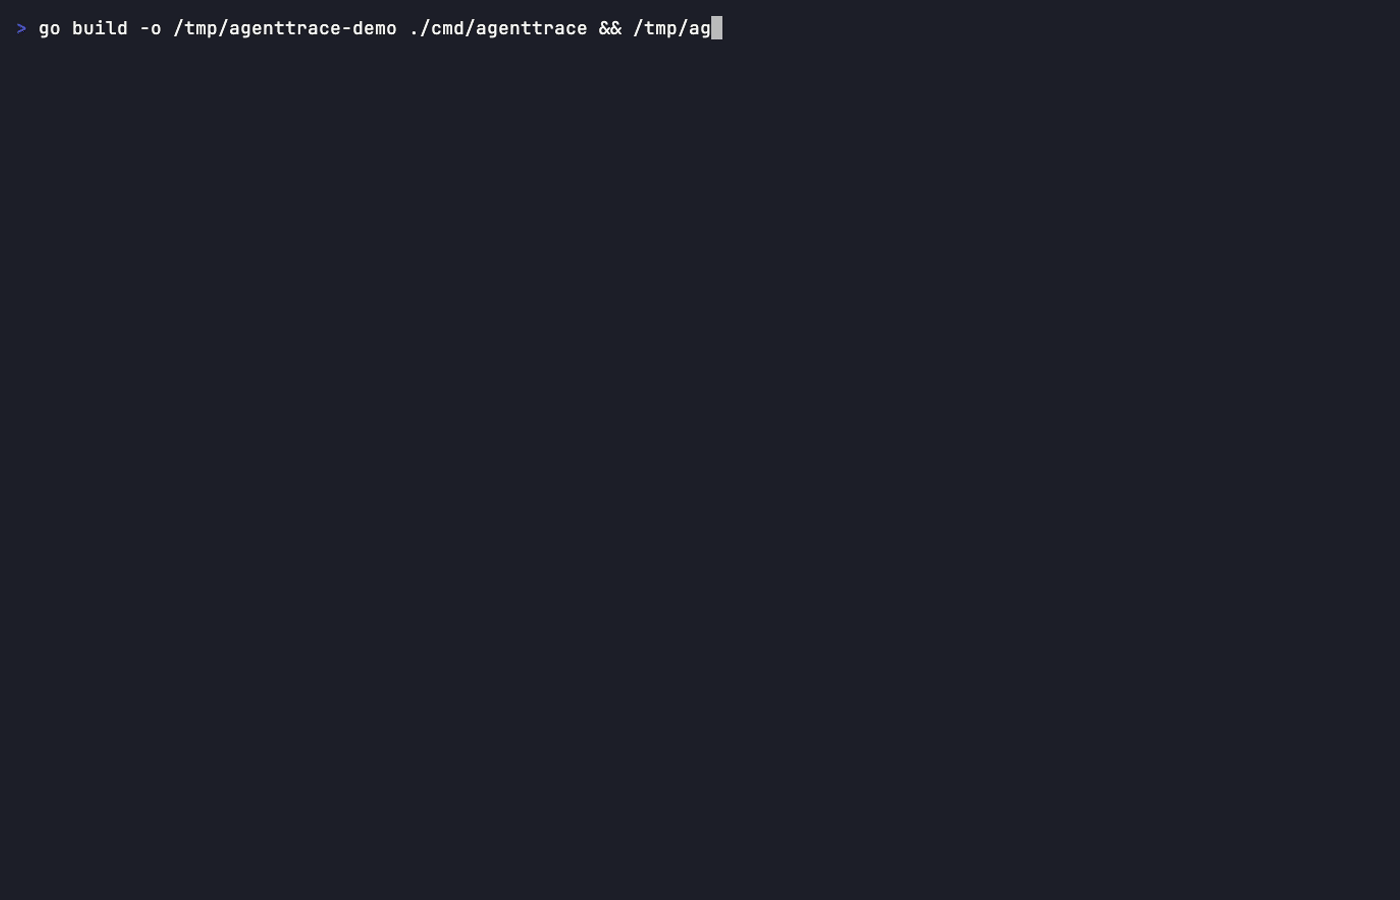
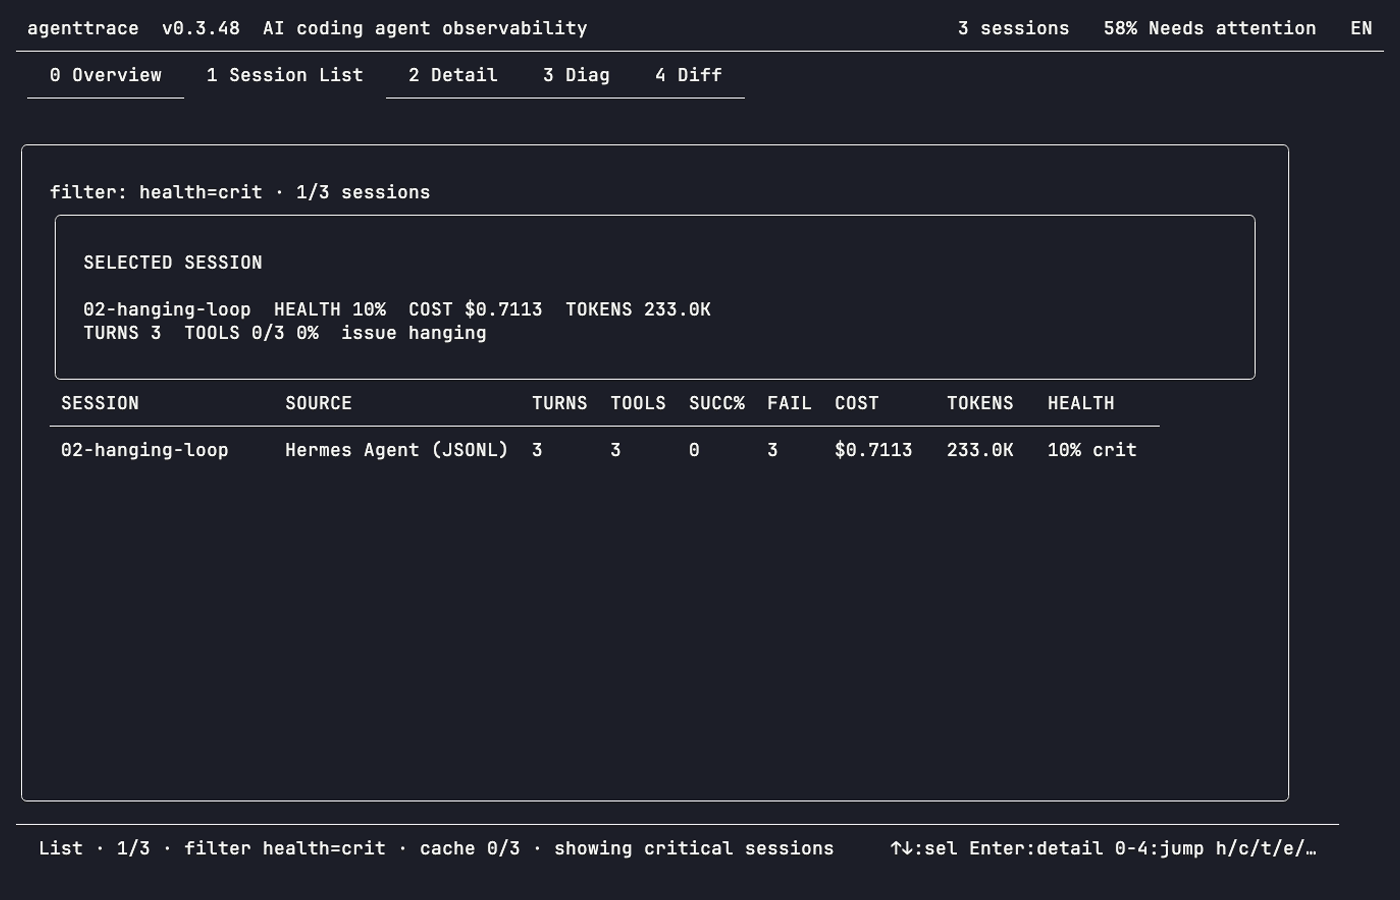
Polish TUI demo path and refresh assets

diff --git a/internal/tui/tui.go b/internal/tui/tui.go
@@ -1039,6 +1039,11 @@ func (m Model) renderListView() string {
 		sections = append(sections, empty)
 		extraLines += renderedLineCount(empty)
 	}
+	if selected := m.renderSelectedSessionSummary(maxInt(1, contentW-6)); selected != "" {
+		panel := subtlePanel(i18n.T("list_selected"), selected, contentW)
+		sections = append(sections, panel)
+		extraLines += renderedLineCount(panel)
+	}
 	tableView := m.table
 	tableView.SetWidth(contentW)
 	tableView.SetHeight(m.listTableHeight(extraLines))
@@ -1203,16 +1208,22 @@ func (m Model) renderSelectedSessionSummary(width int) string {
 			dimStyle.Render(truncate(line2, width)),
 		)
 	}
-	line := fmt.Sprintf("%s  %s %d%%  %s $%.4f  %s %s  %s %d  %s %d/%d %s  %s %s",
-		truncate(s.Name, 28),
+	nameW := minInt(32, maxInt(14, width/3))
+	line1 := fmt.Sprintf("%s  %s %d%%  %s $%.4f  %s %s",
+		truncate(s.Name, nameW),
 		i18n.T("health"), clampHealth(s.Health),
 		i18n.T("cost"), safeAmount(met.CostEstimated),
 		i18n.T("tokens"), compactInt(met.TokensInput+met.TokensOutput),
+	)
+	line2 := fmt.Sprintf("%s %d  %s %d/%d %s  %s %s",
 		i18n.T("turns_header"), nonNegativeInt(met.AssistantTurns),
 		i18n.T("tools"), okTools, totalTools, success,
 		i18n.T("list_issue"), issue,
 	)
-	return dimStyle.Render(truncate(line, width))
+	return lipgloss.JoinVertical(lipgloss.Left,
+		dimStyle.Render(truncate(line1, width)),
+		dimStyle.Render(truncate(line2, width)),
+	)
 }
 
 func (m Model) selectionHint() string {
@@ -1897,25 +1908,19 @@ func (m Model) renderContextUtil(s engine.Session) string {
 	default:
 		style = greenStyle
 	}
-	barWidth := 30
-	if m.frameBodyWidth() < 70 {
-		barWidth = maxInt(8, m.frameBodyWidth()-34)
-	}
 	utilPct := cu.UtilizationPct
 	if !isFiniteNumber(utilPct) || utilPct < 0 {
 		utilPct = 0
 	} else if utilPct > 100 {
 		utilPct = 100
 	}
-	filled := int(utilPct / 100 * float64(barWidth))
-	bar := "[" + lipgloss.NewStyle().Foreground(lipgloss.Color("196")).Render(strings.Repeat("█", filled)) +
-		lipgloss.NewStyle().Foreground(lipgloss.Color("240")).Render(strings.Repeat("░", barWidth-filled)) + "]"
+	utilLabel := style.Render(fmt.Sprintf("(%.0f%% %s)", utilPct, i18n.T("diag_ctx_used")))
 
 	if m.frameBodyWidth() < 70 {
 		content := fmt.Sprintf("  %-10s %s\n", i18n.T("diag_ctx_total"), cyanStyle.Render(tokenCount(cu.EstimatedTotal)))
 		content += fmt.Sprintf("  %-10s %s\n", i18n.T("diag_ctx_tool_defs"), dimStyle.Render(tokenCount(cu.ToolDefinitions)))
 		content += fmt.Sprintf("  %-10s %s\n", i18n.T("diag_ctx_history"), dimStyle.Render(tokenCount(cu.ConversationHist)))
-		content += fmt.Sprintf("  %-10s %s %s\n", i18n.T("diag_ctx_available"), style.Render(fmt.Sprintf("%d", nonNegativeInt(cu.AvailableForTask))), bar)
+		content += fmt.Sprintf("  %-10s %s %s\n", i18n.T("diag_ctx_available"), style.Render(tokenCount(cu.AvailableForTask)), utilLabel)
 		content += fmt.Sprintf("  %-10s %s\n", i18n.T("diag_ctx_suggestion"), style.Render(truncate(cu.Suggestion, maxInt(8, m.frameBodyWidth()-18))))
 		return content
 	}
@@ -1926,7 +1931,7 @@ func (m Model) renderContextUtil(s engine.Session) string {
 	content += fmt.Sprintf("  %-22s %s\n", i18n.T("diag_ctx_sysprompt"), dimStyle.Render(tokenCount(cu.SystemPrompt)))
 	content += fmt.Sprintf("  ─────────────────────────────\n")
 	content += fmt.Sprintf("  %-22s %s %s\n", i18n.T("diag_ctx_available"),
-		style.Render(tokenCount(cu.AvailableForTask)), bar)
+		style.Render(tokenCount(cu.AvailableForTask)), utilLabel)
 	content += fmt.Sprintf("  %-22s %s\n", i18n.T("diag_ctx_suggestion"), style.Render(cu.Suggestion))
 	return content
 }
@@ -2209,21 +2214,21 @@ func costColor(amount float64) string {
 
 func healthCell(health int, width int) string {
 	health = clampHealth(health)
-	score := fmt.Sprintf("%3d%%", health)
+	score := fmt.Sprintf("%d%%", health)
 	if width < 7 {
-		return fmt.Sprintf("%d%%", health)
+		return truncate(score, width)
 	}
-	barW := maxInt(1, width-5)
-	filled := health * barW / 100
-	if health > 0 && filled == 0 {
-		filled = 1
+	label := i18n.T("list_health_crit")
+	if health >= 80 {
+		label = i18n.T("list_health_good")
+	} else if health >= 50 {
+		label = i18n.T("list_health_warn")
 	}
-	if filled > barW {
-		filled = barW
+	text := score
+	if candidate := fmt.Sprintf("%s %s", score, label); lipgloss.Width(candidate) <= width {
+		text = candidate
 	}
-	bar := healthColor(health).Render(strings.Repeat("█", filled)) +
-		dimStyle.Render(strings.Repeat("░", barW-filled))
-	return score + " " + bar
+	return healthColor(health).Render(truncate(text, width))
 }
 
 // refreshColumns rebuilds column titles after a language switch.
@@ -2243,10 +2248,10 @@ func (m *Model) adjustColumnWidths(width int) {
 		m.setColumnsAndRefreshRows(m.wideListColumns(22, 13, 18, 5, 5, 5, 5, 8, 7, 8, 5, 9, 16))
 		return
 	} else if width > 130 {
-		m.setColumnsAndRefreshRows(m.wideListColumns(14, 8, 10, 5, 5, 5, 4, 7, 6, 5, 4, 7, 10))
+		m.setColumnsAndRefreshRows(m.wideListColumns(14, 13, 10, 5, 5, 5, 4, 7, 6, 5, 4, 9, 7))
 		return
 	} else if width >= 100 {
-		sessW, srcW, turnsW, toolsW, succW, failW, costW, tokensW, healthW = 17, 10, 5, 5, 5, 4, 8, 7, 8
+		sessW, srcW, turnsW, toolsW, succW, failW, costW, tokensW, healthW = 18, 20, 5, 5, 5, 4, 8, 7, 9
 	} else if width >= 92 {
 		sessW, srcW, turnsW, toolsW, succW, failW, costW, tokensW, healthW = 10, 7, 4, 4, 4, 4, 7, 5, 7
 	} else if width >= 76 {

diff --git a/internal/i18n/i18n.go b/internal/i18n/i18n.go
@@ -757,8 +757,8 @@ var translations = map[string]map[Lang]string{
 		ZH: "警告: '%s' 无进展重复 %d 次",
 	},
 	"diag_no_loop_fp": {
-		EN: "No fingerprint loops detected — agent progressing normally",
-		ZH: "未检测到指纹级循环 — Agent 正常推进中",
+		EN: "No fingerprint loops detected",
+		ZH: "未检测到指纹级循环",
 	},
 	"diag_tool_latency": {
 		EN: "PER-TOOL LATENCY RANKING",
@@ -780,6 +780,7 @@ var translations = map[string]map[Lang]string{
 	"diag_ctx_history":    {EN: "Conversation History", ZH: "对话历史"},
 	"diag_ctx_sysprompt":  {EN: "System Prompt", ZH: "系统提示"},
 	"diag_ctx_available":  {EN: "Available for Task", ZH: "任务可用空间"},
+	"diag_ctx_used":       {EN: "used", ZH: "已用"},
 	"diag_ctx_suggestion": {EN: "Recommendation", ZH: "建议"},
 	"diag_large_params": {
 		EN: "LARGE PARAMETER CALLS",
@@ -833,6 +834,7 @@ var translations = map[string]map[Lang]string{
 	"cache_status":          {EN: "cache %d/%d", ZH: "缓存 %d/%d"},
 	"scroll_label":          {EN: "Scroll", ZH: "滚动"},
 	"list_filter":           {EN: "filter", ZH: "筛选"},
+	"list_selected":         {EN: "SELECTED SESSION", ZH: "当前会话"},
 	"list_issue":            {EN: "issue", ZH: "问题"},
 	"list_no_major_anomaly": {EN: "No major anomaly", ZH: "无主要异常"},
 	"list_filter_none":      {EN: "none", ZH: "无"},
@@ -1137,7 +1139,7 @@ var translations = map[string]map[Lang]string{
 	// ── Context utilization suggestion ──
 	"diag_ctx_suggestion_critical": {EN: "context nearly full — reduce MCP tools or compact conversation immediately", ZH: "上下文几乎满 — 立即减少 MCP 工具或压缩对话"},
 	"diag_ctx_suggestion_warning":  {EN: "context filling up — consider compacting or trimming rarely used tools", ZH: "上下文趋于饱和 — 考虑压缩或裁剪低频工具"},
-	"diag_ctx_suggestion_good":     {EN: "plenty of context headroom", ZH: "上下文空间充足"},
+	"diag_ctx_suggestion_good":     {EN: "context headroom OK", ZH: "上下文空间充足"},
 
 	// ── Diff summary ──
 	"diff_summary_session_vs":  {EN: "Session %s vs %s", ZH: "会话 %s vs %s"},

diff --git a/internal/tui/tui_test.go b/internal/tui/tui_test.go
@@ -708,16 +708,20 @@ func TestViewsClampInvalidHealthScores(t *testing.T) {
 	}
 }
 
-func TestHealthCellShowsScanFriendlyBar(t *testing.T) {
+func TestHealthCellShowsScanFriendlyStatus(t *testing.T) {
+	prev := i18n.Current
+	i18n.SetLang(i18n.EN)
+	t.Cleanup(func() { i18n.SetLang(prev) })
+
 	tests := []struct {
 		health int
 		width  int
 		want   string
 	}{
-		{health: 92, width: 9, want: "92%"},
-		{health: 64, width: 8, want: "64%"},
-		{health: -20, width: 9, want: "0%"},
-		{health: 150, width: 9, want: "100%"},
+		{health: 92, width: 9, want: "92% good"},
+		{health: 64, width: 8, want: "64% warn"},
+		{health: -20, width: 9, want: "0% crit"},
+		{health: 150, width: 9, want: "100% good"},
 		{health: 42, width: 5, want: "42%"},
 	}
 
@@ -729,8 +733,8 @@ func TestHealthCellShowsScanFriendlyBar(t *testing.T) {
 		if lipgloss.Width(got) > tt.width {
 			t.Fatalf("healthCell(%d, %d) too wide: got=%d %q", tt.health, tt.width, lipgloss.Width(got), got)
 		}
-		if tt.width >= 7 && !strings.Contains(got, "█") && !strings.Contains(got, "░") {
-			t.Fatalf("healthCell(%d, %d) should include a scan bar: %q", tt.health, tt.width, got)
+		if strings.Contains(got, "█") || strings.Contains(got, "░") {
+			t.Fatalf("healthCell(%d, %d) should avoid noisy bar glyphs: %q", tt.health, tt.width, got)
 		}
 	}
 }
@@ -968,6 +972,23 @@ func TestListViewFitsTerminalHeight(t *testing.T) {
 		rendered := m.View()
 		if got := renderedHeight(rendered); got > height {
 			t.Fatalf("list render too tall: height=%d got=%d", height, got)
+		}
+	}
+}
+
+func TestListViewShowsSelectedSessionSummary(t *testing.T) {
+	prev := i18n.Current
+	i18n.SetLang(i18n.EN)
+	t.Cleanup(func() { i18n.SetLang(prev) })
+
+	m := resizeForTest(t, sampleModelForTest(), 120, 32)
+	m.view = viewList
+	m.table.SetCursor(1)
+
+	rendered := m.View()
+	for _, want := range []string{"SELECTED SESSION", "session_beta", "$1.2500", "tool failures"} {
+		if !strings.Contains(rendered, want) {
+			t.Fatalf("list summary missing %q:\n%s", want, rendered)
 		}
 	}
 }

diff --git a/docs/demo-playbook.md b/docs/demo-playbook.md
@@ -8,7 +8,7 @@ Use this when sharing agenttrace on GitHub, Hacker News, Reddit, V2EX, X, or Pro
 scripts/record-demo.sh
 ```
 
-The script renders [docs/demo.tape](demo.tape) into `assets/agenttrace-demo.gif` with [VHS](https://github.com/charmbracelet/vhs). VHS also needs `ttyd` available on `PATH`.
+The script renders [docs/demo.tape](demo.tape) into `assets/agenttrace-demo.gif` with [VHS](https://github.com/charmbracelet/vhs), then refreshes `assets/tui-preview.png` when `ffmpeg` is available. VHS also needs `ttyd` available on `PATH`.
 
 ## Storyline
 

diff --git a/README.md b/README.md
@@ -34,7 +34,7 @@ Featured in: [Awesome Codex CLI](https://github.com/RoggeOhta/awesome-codex-cli)
   <img src="assets/agenttrace-demo.gif" alt="agenttrace TUI demo" width="100%">
 </p>
 
-The GIF follows the shortest first-run path: `agenttrace --demo`, `!`, `Enter`, then `w` for diagnostics.
+The GIF follows the shortest first-run path: demo data -> critical sessions -> detail -> diagnostics -> overview.
 
 > Sharing agenttrace? See [docs/demo-playbook.md](docs/demo-playbook.md) for the GIF recording script, launch storyline, and posting copy.
 
